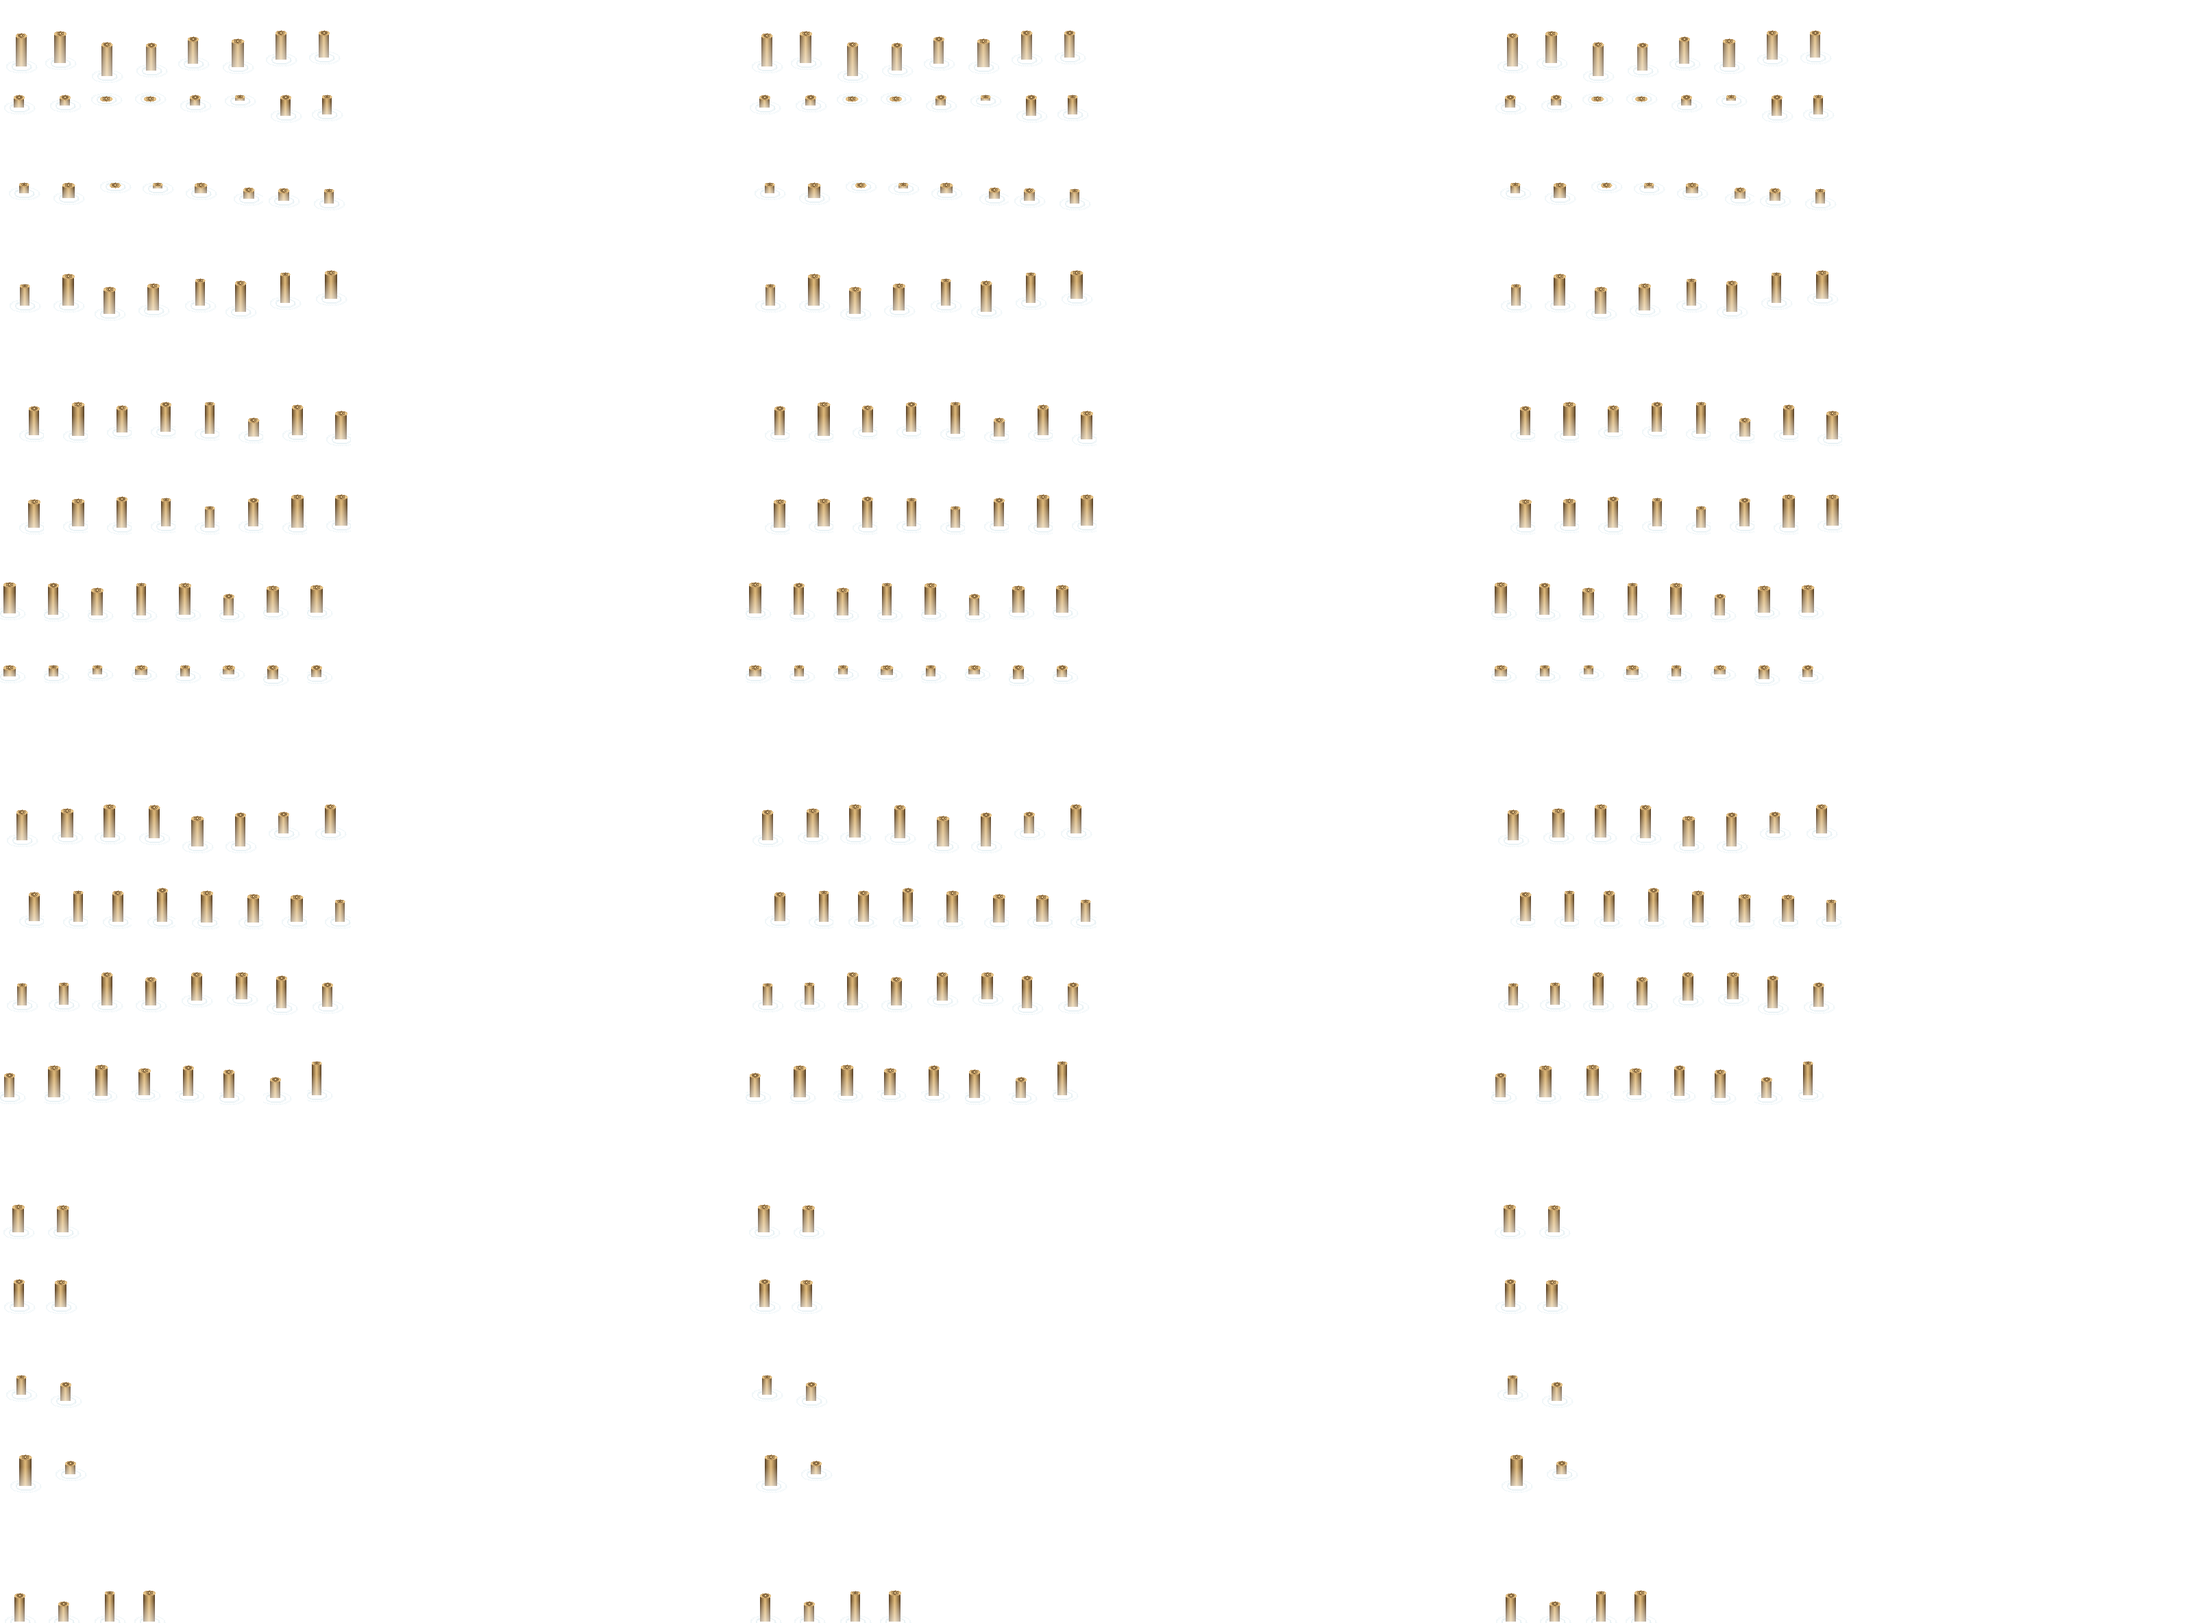
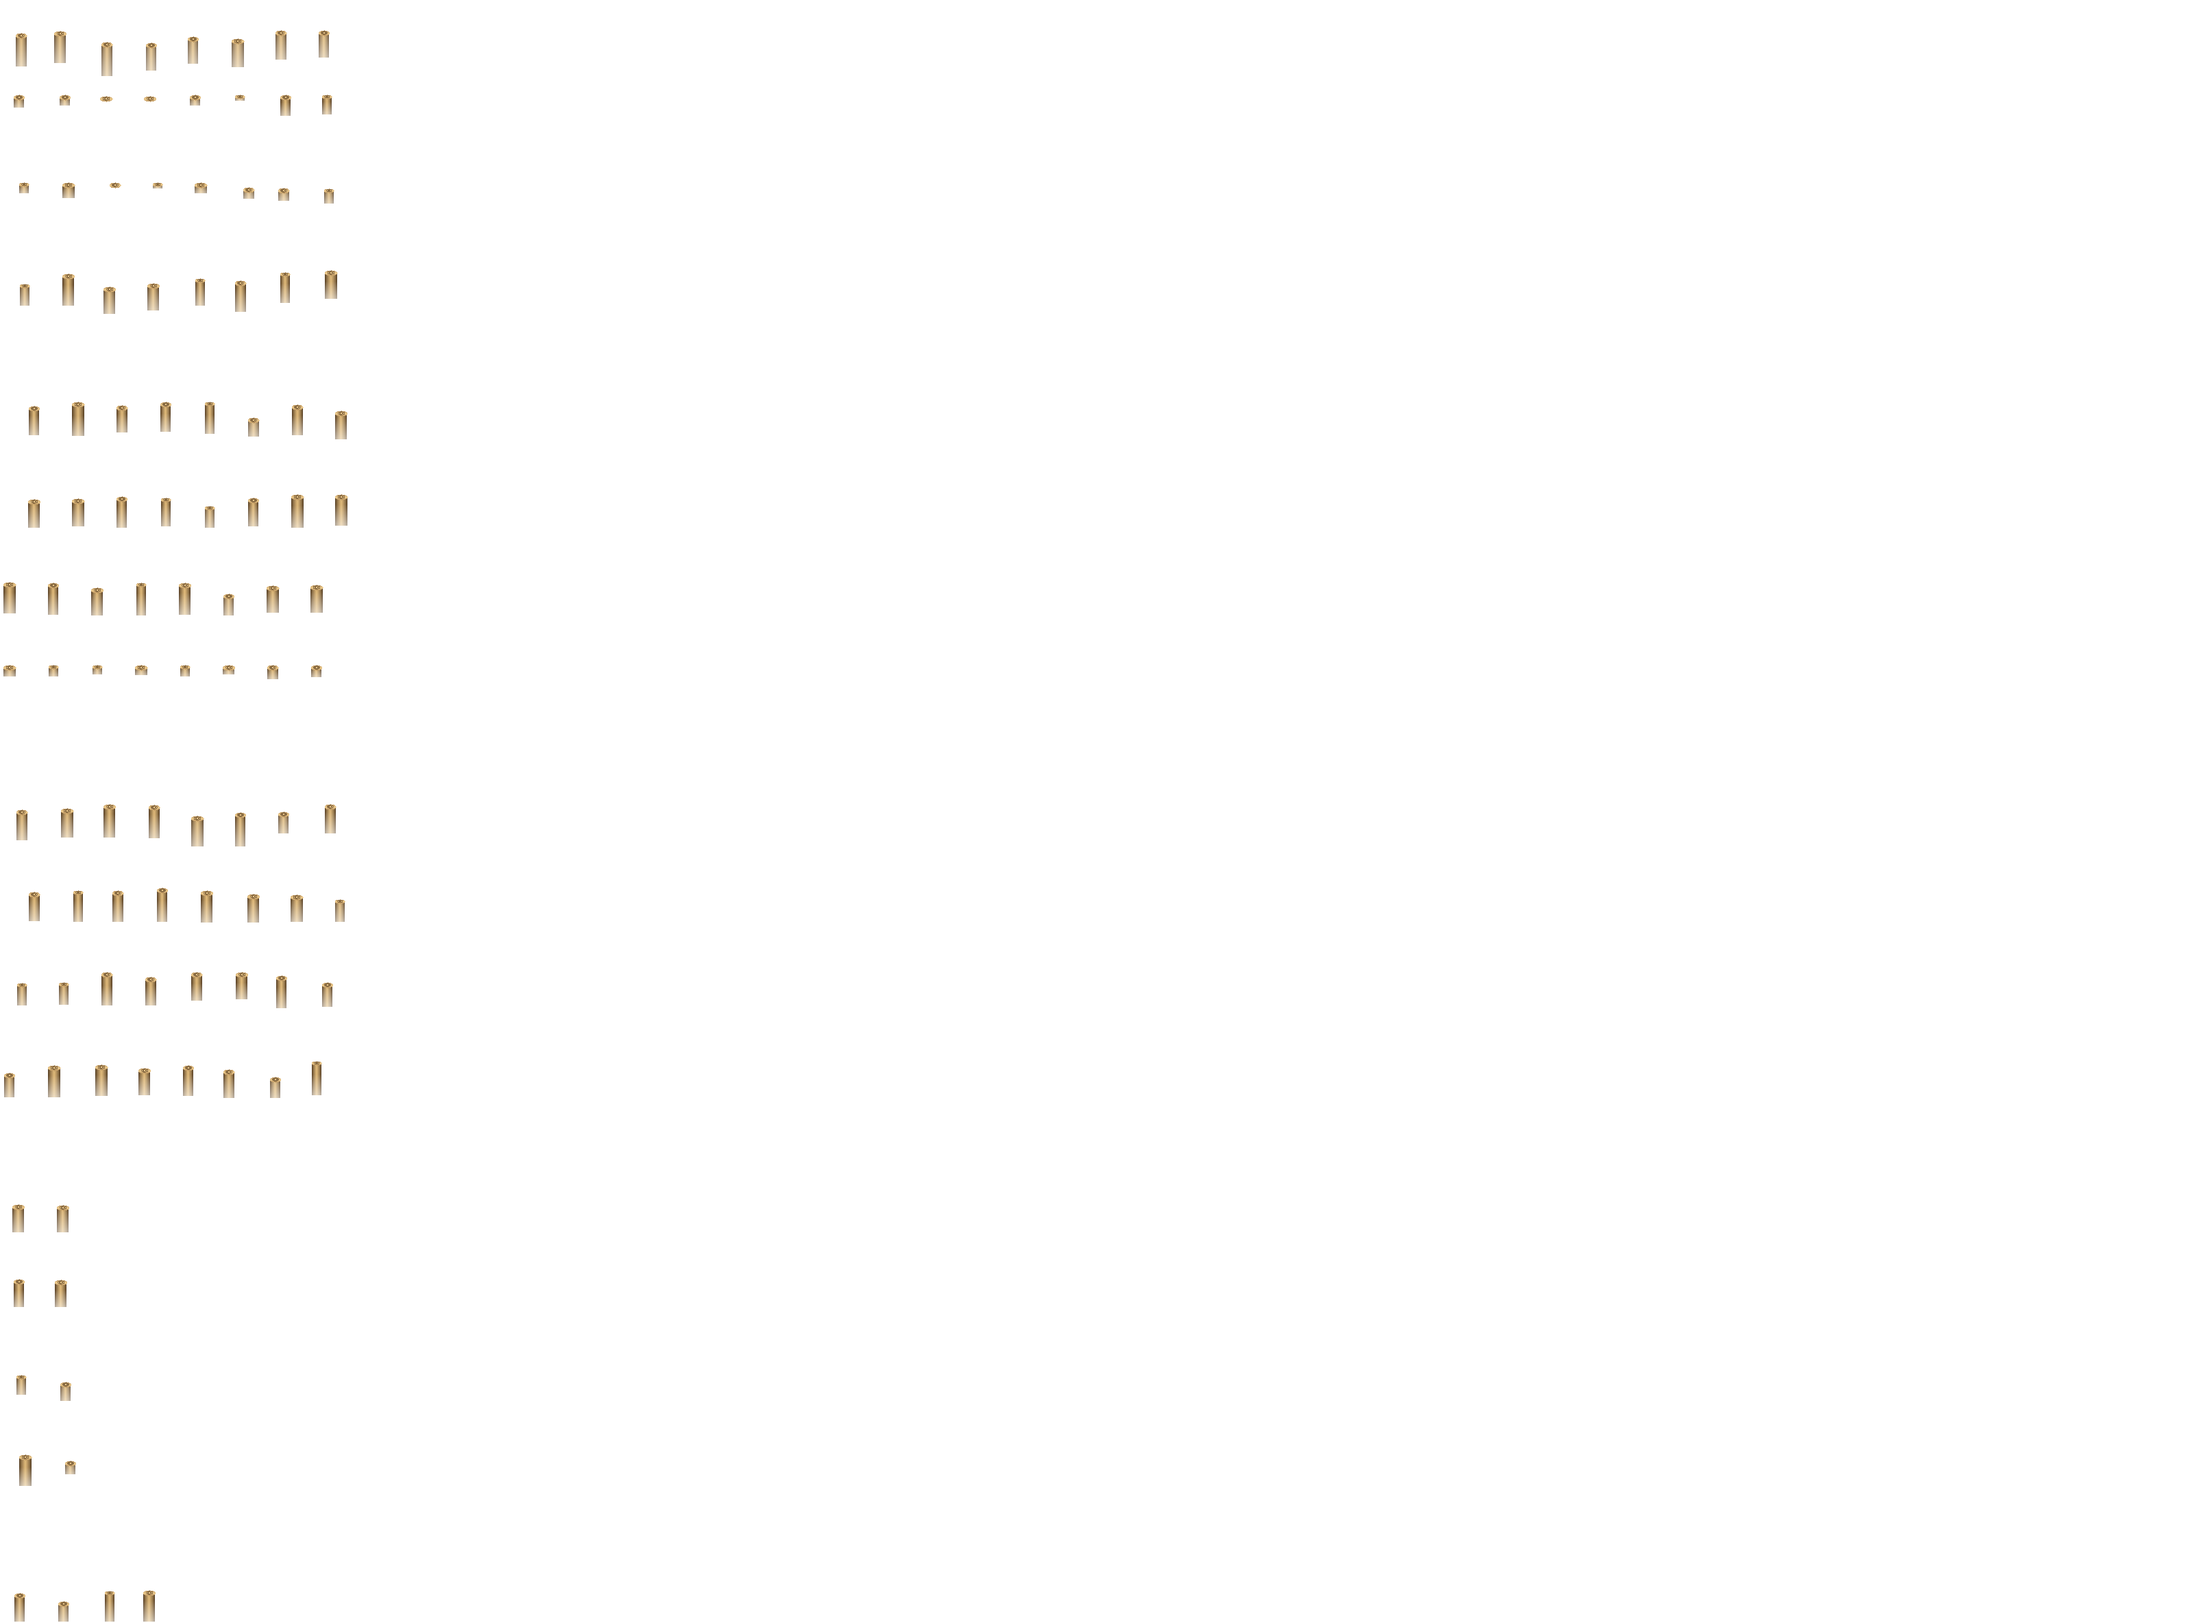
Single-copy post sheets; delete the unused 3-panel-era pilings.png
The art sheets were stamped into all three transition layer panels
(overlay/background/mask) while the effect map only covered the
overlay's copy - the two extra copies rendered unmasked under the water
shader, which is the 'ghost post' (old submerged graphics) seen in
every art-drawing arm; arm C (blank sheet) proved the mask itself is
clean. Sheets are now overlay-panel only (single copy, matching the
mask's coverage), foam rings removed (the circles; foam belongs in a
shader-interacting layer later), the mask foot holds at 50% dryness to
the base (grounds the post), and the unused 3-panel-era pilings.png is
deleted (git history keeps it).

diff --git a/tools/gen-placeholders.py b/tools/gen-placeholders.py
@@ -1,20 +1,24 @@
 #!/usr/bin/env python3
 """Generates the ford post sheets.
 
-  pilings.png      gold standard art (py-ford-flooded) - DO NOT TUNE, keep byte-stable
-  pilings-exp.png  experiment posts (exp-1 and exp-2): 2/3 size, wood rings on the
-                   cut faces, softer shading (anti-"barcode"), north-facing posts
-                   shifted half a tile south so the tops sit closer to the planks
-  pilings-mask.png the KNOWN-GOOD gray dryness mask (304df33 form, in-game A/B'd):
-                   crowns 170 (dry, renders above water), 6px 170->0 ramp at the
-                   crown/foot line, 0 elsewhere (water renders normally). All three
-                   channels equal. HISTORY: channel-split masks (v2: R=255/G=0/B=lap;
-                   v3: Wube format + tile_height declarations) both rendered the
-                   posts submerged - the dryness signal empirically follows the
-                   uniform gray level. Vanilla's channel semantics remain unknown.
-  pilings-blank.png fully transparent sheet (same dimensions) - exp-2 (mask only)
-                   uses it as its spritesheet so the water-shader reaction to the
-                   mask renders with NO post sprites at all.
+  pilings-exp.png   THE post sheet (arms A and B): 2/3-size posts, wood rings on
+                    the cut faces, softer shading, north-facing posts' bases
+                    shifted half a tile south. Contains ONLY the pilings - no
+                    painted foam (foam belongs in a layer the water shader
+                    interacts with; revisit once basic visuals are correct).
+  pilings-mask.png  the known-good gray dryness mask (304df33 form, in-game
+                    A/B'd): crowns 170 (dry, renders above water); the foot ramps
+                    to 50% dryness (85) over ~12px below the waterline and HOLDS
+                    to the base - the post grounds in the water bottom instead of
+                    fading out; 0 outside the posts (water renders normally).
+                    All three channels equal. HISTORY: v1 inverted (170 everywhere
+                    = black tile); channel-split and Wube-format variants rendered
+                    posts submerged - the dryness signal empirically follows the
+                    uniform gray level. Vanilla's exact channel semantics remain
+                    unknown (posila: effect maps are interpreted per-shader).
+  pilings-blank.png fully transparent sheet (same dimensions) - arm C (mask only)
+                    uses it as its spritesheet so the water-shader reaction to
+                    the mask renders with NO post sprites at all.
 
 Sheet structure (decoded from base): 64px columns = one slot per tile edge;
 bands at y 0/576/1152/1728 hold 8 columns x 4 rotation rows of 64x128 pieces;
@@ -25,64 +29,56 @@ ANCHORING MODEL: the post's BASE is the anchor (it stands at the waterline);
 the cap is derived (base - height). Placement tweaks are expressed as per-row
 BASE_SHIFT_ROWS adjustments; weathering shortens posts from the cap down.
 
+PANELS: overlay only. Stamping the background (x 1088) and mask (x 2176) panels
+caused circles/zig-zag artifacts (the mask panel drives terrain-blend;
+mask_enabled defaults true). Vanilla's water-shallow transition proves
+overlay-only is valid; isolation arm C confirmed the artifacts live in the art
+panels.
+
 OPEN GUESSES (flagged for in-game A/B):
-  BASE_SHIFT_ROWS = {0} assumes rotation row 0 = north edge (its base sits half
-  a tile too far from the planks). If exp-1 shows the wrong side shifted, flip
-  to {2}.
+  BASE_SHIFT_ROWS = {0: 32} assumes rotation row 0 = north edge. If the wrong
+  side shifted, flip to {2: 32}.
 """
 from PIL import Image
 import numpy as np, random, math
 
 BASE = "/home/nmrp3/.local/share/factorio_2_dlc/data/base/graphics/terrain/water-transitions/"
-PANELS = (0, 1088, 2176)
+PANELS = (0,)  # overlay panel ONLY (see docstring)
 BANDS = [(0, 8, 128, 4), (576, 8, 128, 4), (1152, 8, 128, 4), (1728, 2, 128, 4), (2304, 4, 64, 1)]
 BASE_SHIFT_ROWS = {0: 32}  # per-rotation-row base anchor adjustment (base = anchor;
                            # 32px = half a tile on the 2x sheet)
 
-GOLD = dict(w=24, hmin=58, hmax=74, jpos=4, foot=115.0, seed=9000,
-            dark=(44, 29, 15), lite=(218, 176, 114), cap=(232, 196, 134), capedge=(168, 128, 76),
-            wf=0.18, wfac=0.72, rings=False)
-EXP = dict(w=16, hmin=40, hmax=50, jpos=3, foot=115.0, seed=41000,
-           dark=(70, 48, 26), lite=(224, 186, 122), cap=(238, 204, 142), capedge=(184, 144, 90),
-           wf=0.18, wfac=0.72, rings=True)
+P = dict(w=16, hmin=40, hmax=50, jpos=3, foot=115.0, seed=41000,
+         dark=(70, 48, 26), lite=(224, 186, 122), cap=(238, 204, 142), capedge=(184, 144, 90),
+         wf=0.18, wfac=0.72, rings=True)
 
-FOAM = np.array([205, 226, 232], np.float32)
-DRY = 170.0       # gray dryness level: 170 = dry (empirically the working form)
-FOAM_RINGS = ((22, 9, 70), (14, 6, 110))  # (rx, ry, alpha); clipped to piece cells
+DRY = 170.0       # mask gray dryness: 170 = dry (empirically the working form)
+FOOT_DRY = 0.5    # foot holds at 50% dryness - grounds the post in the water bottom
+FOOT_RAMP = 12    # px over which the dryness ramps 170 -> 50% below the waterline
 
 van = np.asarray(Image.open(BASE + "landfill.png").convert("RGBA")).astype(np.float32)
 alpha2 = van[..., 3]
 
 def npv(c): return np.array(c, np.float32)
 
-def draw_foam(cv, cx, cy, rx, ry, a, clip):
-    """Foam ring, strictly clipped to its piece cell - spilled ring fragments
-    render again wherever the neighbouring piece is used (the 'echo pole')."""
-    y_lo, y_hi, x_lo, x_hi = clip
-    for t in np.linspace(0, 2 * math.pi, 90):
-        for th in (0, 1):
-            x, y = int(cx + rx * math.cos(t)) + th, int(cy + ry * math.sin(t)) + th
-            if y_lo <= y < y_hi and x_lo <= x < x_hi and cv[y, x, 3] < a:
-                cv[y, x, :3], cv[y, x, 3] = FOAM, a
-
 def draw_post(cv, px, base_y, y_min, h, w, p):
     rx = w / 2.0
     ry = max(int(rx * 0.55), 3)
     cy_cap = max(int(base_y - h), y_min) + ry
     x0 = int(px - rx)
-    for x in range(x0, x0 + w):
+    for x in range(x0, x0 + w):                        # body below the cap
         t = (x - x0 + 0.5) / w
         col = npv(p["dark"]) + (npv(p["lite"]) - npv(p["dark"])) * ((1 - abs(t - 0.5) * 2) ** 0.7)
         for y in range(int(cy_cap), int(base_y)):
             frac = (y - y_min) / max(base_y - y_min, 1)
             a = 255.0 if frac < 0.5 else 255.0 - (frac - 0.5) / 0.5 * (255.0 - p["foot"])
             cv[y, x, :3], cv[y, x, 3] = col, a
-    for dy in range(-ry, ry + 1):  # elliptical cut face
+    for dy in range(-ry, ry + 1):                      # elliptical cut face
         hw = rx * math.sqrt(max(1.0 - (dy / ry) ** 2, 0.0))
         xa, xb = int(px - hw), int(px + hw)
         cv[cy_cap + dy, xa:xb + 1, :3] = npv(p["cap"]) + (npv(p["capedge"]) - npv(p["cap"])) * (abs(dy) / ry)
         cv[cy_cap + dy, xa:xb + 1, 3] = 255.0
-    if p["rings"]:  # wood rings on the cut face
+    if p["rings"]:                                     # wood rings on the cut face
         for fr in (0.55, 0.28):
             ring = npv(p["capedge"]) * 0.75
             for t in np.linspace(0, 2 * math.pi, 48):
@@ -90,60 +86,48 @@ def draw_post(cv, px, base_y, y_min, h, w, p):
                 if 0 <= y < cv.shape[0] and 0 <= x < cv.shape[1]:
                     cv[y, x, :3] = ring
 
-def gen(p, out, mask_out=None):
-    art = np.zeros((2368, 3200, 4), np.float32)
-    mask = np.zeros((2368, 512), np.float32) if mask_out else None
-    n = 0
-    n = 0
-    n = 0
-    n = 0
-    n = 0
-    for y0, cols, ch, rows in BANDS:
-        for r in range(rows):
-            ry0 = y0 + r * 128
-            for c in range(cols):
-                cx0 = c * 64
-                rng = random.Random(p["seed"] + y0 * 31 + r * 7 + c)
-                ca = alpha2[ry0:ry0 + ch, cx0:cx0 + 64]
-                ys, xs = np.nonzero(ca > 128)
-                if len(ys) == 0: continue
-                px_rel = min(max(int(xs.mean()) + rng.randint(-p["jpos"], p["jpos"]), 14), 50)
-                col_a = ca[:, px_rel]
-                base_rel = min(int(np.nonzero(col_a > 128)[0].max()) + 1 + rng.randint(-2, 2), ch - 2)
-                base_rel = min(base_rel + BASE_SHIFT_ROWS.get(r, 0), ch - 2)
-                w = p["w"] + rng.randint(-2, 2)
-                h = min(rng.randint(p["hmin"], p["hmax"]), base_rel - 10)
-                if rng.random() < p["wf"]: h = int(h * p["wfac"])
-                bx, by = cx0 + px_rel, ry0 + base_rel
-                top = max(int(by - h), ry0)
-                for dx in PANELS:
-                    clip = (ry0, ry0 + ch, cx0 + dx, cx0 + 64 + dx)
-                    for rx, ry, fa in FOAM_RINGS:
-                        draw_foam(art, bx + dx, by, rx, ry, fa, clip)
-                    draw_post(art, bx + dx, by, ry0, h, w, p)
-                if mask is not None:
-                    # KNOWN-GOOD gray dryness: crowns 170, 6px ramp to 0 below the
-                    # crown/foot line, 0 elsewhere
-                    rx = w / 2.0; ry = max(int(rx * 0.55), 3)
-                    cy_cap = top + ry
-                    xa, xb = max(bx - int(rx), 0), min(bx + int(rx) + 1, 512)
-                    for dy in range(-ry, ry + 1):
-                        hw = int(rx * math.sqrt(max(1.0 - (dy / ry) ** 2, 0.0)))
-                        mask[cy_cap + dy, max(bx - hw, 0):min(bx + hw + 1, 512)] = DRY
-                    mid = int(by - h * 0.5)
-                    mask[top + ry:mid, xa:xb] = DRY
-                    for i, y in enumerate(range(mid, min(mid + 6, int(by)))):
-                        mask[y, xa:xb] = DRY * (1 - (i + 1) / 6.0)
-                n += 1
-    Image.fromarray(art.clip(0, 255).astype(np.uint8), "RGBA").save(out)
-    if mask is not None:
-        m = np.zeros((2368, 512, 4), np.float32)
-        m[..., 0] = m[..., 1] = m[..., 2] = mask
-        m[..., 3] = 255.0
-        Image.fromarray(m.clip(0, 255).astype(np.uint8), "RGBA").save(mask_out)
-    print(f"{out}: {n} posts" + (f" (+ {mask_out})" if mask_out else ""))
+art = np.zeros((2368, 3200, 4), np.float32)
+mask = np.zeros((2368, 512), np.float32)
+n = 0
+for y0, cols, ch, rows in BANDS:
+    for r in range(rows):
+        ry0 = y0 + r * 128
+        for c in range(cols):
+            cx0 = c * 64
+            rng = random.Random(P["seed"] + y0 * 31 + r * 7 + c)
+            ca = alpha2[ry0:ry0 + ch, cx0:cx0 + 64]
+            ys, xs = np.nonzero(ca > 128)
+            if len(ys) == 0: continue
+            px_rel = min(max(int(xs.mean()) + rng.randint(-P["jpos"], P["jpos"]), 14), 50)
+            col_a = ca[:, px_rel]
+            base_rel = min(int(np.nonzero(col_a > 128)[0].max()) + 1 + rng.randint(-2, 2), ch - 2)
+            base_rel = min(base_rel + BASE_SHIFT_ROWS.get(r, 0), ch - 2)
+            w = P["w"] + rng.randint(-2, 2)
+            h = min(rng.randint(P["hmin"], P["hmax"]), base_rel - 10)
+            if rng.random() < P["wf"]: h = int(h * P["wfac"])
+            bx, by = cx0 + px_rel, ry0 + base_rel
+            draw_post(art, bx, by, ry0, h, w, P)
+            # mask: crown fully dry; foot ramps to 50% dryness and HOLDS to the
+            # base (the post grounds in the water bottom, never fades to zero)
+            rx = w / 2.0; ry = max(int(rx * 0.55), 3)
+            cy_cap = max(int(by - h), ry0) + ry
+            xa, xb = max(bx - int(rx), 0), min(bx + int(rx) + 1, 512)
+            for dy in range(-ry, ry + 1):
+                hw = int(rx * math.sqrt(max(1.0 - (dy / ry) ** 2, 0.0)))
+                mask[cy_cap + dy, max(bx - hw, 0):min(bx + hw + 1, 512)] = DRY
+            top = max(int(by - h), ry0)
+            mid = int(by - h * 0.5)
+            mask[top + ry:mid, xa:xb] = DRY
+            for i, y in enumerate(range(mid, int(by))):
+                f = min(1.0, (i + 1) / FOOT_RAMP)
+                mask[y, xa:xb] = DRY * (1.0 - FOOT_DRY * f)
+            n += 1
 
-gen(GOLD, "pilings.png")
-gen(EXP, "pilings-exp.png", mask_out="pilings-mask.png")
+Image.fromarray(art.clip(0, 255).astype(np.uint8), "RGBA").save("pilings-exp.png")
+m = np.zeros((2368, 512, 4), np.float32)
+m[..., 0] = m[..., 1] = m[..., 2] = mask
+m[..., 3] = 255.0
+Image.fromarray(m.clip(0, 255).astype(np.uint8), "RGBA").save("pilings-mask.png")
 Image.new("RGBA", (3200, 2368), (0, 0, 0, 0)).save("pilings-blank.png")
-print("pilings-blank.png: fully transparent (exp-2 mask-only arm)")
+print(f"pilings-exp.png: {n} posts (pilings only, no foam); "
+      f"pilings-mask.png: gray, foot holds at {int(DRY * (1 - FOOT_DRY))}; pilings-blank.png")
